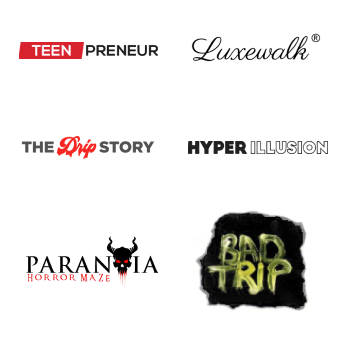
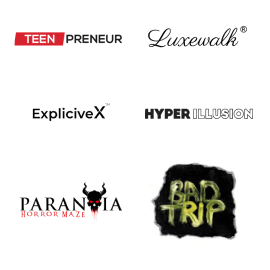
Akshat's changes befor launch

diff --git a/index.html b/index.html
@@ -5,12 +5,12 @@
 <meta content="text/html;charset=utf-8" http-equiv="Content-Type">
 <meta content="utf-8" http-equiv="encoding">
 <meta name="viewport" content="initial-scale=1">
-<title>The Drip Story Website Improv</title>
+<title>The Drip Story E-Com Booster</title>
 <meta class="metaTagTop" name="description" content="We Help E-commerce &amp; Info Product Businesses By Producing Spine-Chilling ROI Via Paid Advertising. ">
 <meta class="metaTagTop" name="keywords" content="Agency, Marketing, Teenpreneuer">
 <meta class="metaTagTop" name="author" content="IAG-Media">
 <meta class="metaTagTop" property="og:image" content="images/Favicon_Dark.png" id="social-image">
-<meta property="og:title" content="The Drip Story Website Improv">
+<meta property="og:title" content="The Drip Story E-Com Booster">
 <meta property="og:description" content="We Help E-commerce &amp; Info Product Businesses By Producing Spine-Chilling ROI by improving their website ">
 <meta property="og:type" content="website">
 <link rel="stylesheet" media="screen" href="css/lander.css">
@@ -39,7 +39,7 @@
 <div id="col-left-135" class="innerContent col_left ui-resizable col-md-3" data-col="left" data-trigger="none" data-animate="fade" data-delay="500" data-title="1st column" style="outline: none;">
 <div class="col-inner bgCover  noBorder borderSolid border3px cornersAll radius0 shadow0 P0-top P0-bottom P0H noTopMargin" style="padding: 0 10px">
 <div class="de elImageWrapper de-image-block elMargin0 elAlign_left ui-droppable de-editable" id="img-74921" data-de-type="img" data-de-editing="false" data-title="image" data-ce="false" data-trigger="none" data-animate="fade" data-delay="500" style="margin-top: 0px; outline: none; cursor: pointer;" aria-disabled="false">
-<img src="images/The Drip Story.png" class="elIMG ximg logo" alt width="400">
+<a href="https://www.thedripstory.com"><img src="images/The Drip Story.png" class="elIMG ximg logo" alt width="400"></a>
 </div>
 </div>
 </div>
@@ -56,7 +56,7 @@
 <!-- <h1 class="ne elHeadline hsSize3 lh4 elMargin0 elBGStyle0 hsTextShadow0 de3pxLetterSpacing mfs_18" style="text-align: left; font-size: 26px; color: rgb(255, 255, 255);" data-bold="inherit" data-gramm="false" contenteditable="false"><b>MODERN DAY ALCHEMY</b></h1> -->
 </div>
 <div class="de elHeadlineWrapper ui-droppable de-editable" id="headline-13122" data-de-type="headline" data-de-editing="false" data-title="headline" data-ce="true" data-trigger="none" data-animate="fade" data-delay="500" style="margin-top: 0px; outline: none; cursor: pointer; font-family: Montserrat, Helvetica, sans-serif !important;" aria-disabled="false" data-google-font="Montserrat">
-<h1 class="ne elHeadline hsSize3 lh4 elMargin0 elBGStyle0 hsTextShadow0 mfs_23" style="text-align: left; font-size: 36px; color: #d8232f;" data-bold="inherit" data-gramm="false" contenteditable="false"><b>We Help E-commerce Stores Produce Spine-Chilling ROI by changing their website by adding secret trigger points for increased conversion</b></h1>
+<h1 class="ne elHeadline hsSize3 lh4 elMargin0 elBGStyle0 hsTextShadow0 mfs_23" style="text-align: left; font-size: 36px; color: #d8232f;" data-bold="inherit" data-gramm="false" contenteditable="false"><b>We Help E-commerce Stores Produce Spine-Chilling ROI by changing their website, applying secretly and delicately curated cognitive psychological triggers all around the website for increased conversion</b></h1>
 </div>
 <div class="de elHeadlineWrapper ui-droppable de-editable" id="headline-23215" data-de-type="headline" data-de-editing="false" data-title="Paragraph" data-ce="true" data-trigger="none" data-animate="fade" data-delay="500" style="margin-top: 15px; outline: none; cursor: pointer; font-family: Montserrat, Helvetica, sans-serif !important;" data-google-font="Montserrat" aria-disabled="false">
 <div class="ne elHeadline hsSize1 lh5 elMargin0 elBGStyle0 hsTextShadow0 mfs_16" data-bold="inherit" style="text-align: left; font-size: 21px; color: rgb(255, 255, 255);" data-gramm="false" contenteditable="false">
@@ -66,8 +66,8 @@ Stop losing money on faulty and ineffective website designs.<div><br></div>
 </div>
 <div class="de elBTN elMargin0 elAlign_left ui-droppable de-editable" id="button-13943" data-de-type="button" data-de-editing="false" data-title="button-cta" data-ce="false" data-trigger="none" data-animate="fade" data-delay="500" style="margin-top: 20px; outline: none; cursor: pointer; font-family: Montserrat, Helvetica, sans-serif !important;" data-element-theme="customized" data-google-font="Montserrat" aria-disabled="false" data-elbuttontype="1">
 <a href="#scroll-schedule-call-sect" class="elButton elButtonSize1 elButtonColor1 elButtonPadding2 elButtonCorner60 elButtonFluid elButtonTxtColor1 elBTN_b_none elButtonShadowFlatHighlight elBTNone elButtonBlock elBtnHP_40 deCapitalize elBtnVP_10 mfs_18" style="color: rgb(255, 255, 255); background: #d8232f; font-size: 24px;" rel="noopener noreferrer" id="undefined-281-307">
-<span class="elButtonMain">Hire Us For &#8377;1,999/-</span>
-<span class="elButtonSub">Speak to Our Team Today</span>
+<span class="elButtonMain">Hire Us for Just &#8377;1,999</span>
+<span class="elButtonSub">*No conditions apply!</span>
 </a>
 </div>
 <div class="de elImageWrapper de-image-block elAlign_center elMargin0 ui-droppable de-editable" id="tmp_image-85185" data-de-type="img" data-de-editing="false" data-title="image" data-ce="false" data-trigger="none" data-animate="fade" data-delay="500" style="margin-top: 30px; outline: none; cursor: pointer;" data-hide-on="mobile" aria-disabled="false">
@@ -114,7 +114,7 @@ Stop losing money on faulty and ineffective website designs.<div><br></div>
 <h1 class="ne elHeadline hsSize3 lh4 elMargin0 elBGStyle0 hsTextShadow0 mfs_21" style="text-align: left; font-size: 32px; color: rgb(0, 0, 0);" data-bold="inherit" data-gramm="false" contenteditable="false"><b>Our Philosophy</b></h1>
 </div>
 <div class="de elHeadlineWrapper ui-droppable hiddenElementTools de-editable" id="headline-53522" data-de-type="headline" data-de-editing="false" data-title="Paragraph" data-ce="true" data-trigger="none" data-animate="fade" data-delay="500" style="margin-top: 15px; outline: none; cursor: pointer; font-family: Montserrat, Helvetica, sans-serif !important;" data-google-font="Montserrat" aria-disabled="false">
-<div class="ne elHeadline hsSize1 lh5 elMargin0 elBGStyle0 hsTextShadow0 mfs_16" data-bold="inherit" style="text-align: left; font-size: 18px; color: #000;" data-gramm="false" contenteditable="false">Here at The Drip Story, we've worked with the best in the industry to produce millions of dollars in ROI by tweaking their websites to trigger the visitors to convert. We do away with the the inefficiencies &amp; formalities that plague most agencies.&nbsp;<div><br></div>
+<div class="ne elHeadline hsSize1 lh5 elMargin0 elBGStyle0 hsTextShadow0 mfs_16" data-bold="inherit" style="text-align: left; font-size: 18px; color: #000;" data-gramm="false" contenteditable="false">Here at The Drip Story, we've worked with the best in the industry to produce millions of dollars in ROI by tweaking their websites to trigger conversions at a consistent scale. We do away with the inefficiencies & formalities that plague most agencies. We're streamlined, in all possible ways.&nbsp;<div><br></div>
 <div>Our client case studies have become myth, our waiting list is longer than your complaints with your current agency and we look for a very specific kind of client.&nbsp;</div>
 <div><br></div>
 <div><b>Maybe that’s you: it would be our honour to find out. Schedule your FREE discovery call below.&nbsp;</b></div>
@@ -147,10 +147,10 @@ Stop losing money on faulty and ineffective website designs.<div><br></div>
   <div id="col-full-177" class="col-md-12 innerContent col_left" data-col="full" data-trigger="none" data-animate="fade" data-delay="500" data-title="1st column" style="outline: none;">
   <div class="col-inner bgCover  noBorder borderSolid border3px cornersAll radius0 shadow0 P0-top P0-bottom P0H noTopMargin" style="padding: 0 10px">
   <div class="de elHeadlineWrapper ui-droppable de-editable" id="headline-80104" data-de-type="headline" data-de-editing="false" data-title="Paragraph" data-ce="true" data-trigger="none" data-animate="fade" data-delay="500" style="margin-top: 5px; outline: none; cursor: pointer; font-family: Montserrat, Helvetica, sans-serif !important;" aria-disabled="false" data-hide-on data-google-font="Montserrat">
-  <div class="ne elHeadline hsSize1 lh5 elMargin0 elBGStyle0 hsTextShadow0 lh6 deUppercase mfs_16 de3pxLetterSpacing" data-bold="inherit" style="text-align: center; font-size: 22px; color: rgb(45, 45, 45);" data-gramm="false" contenteditable="false"><div><font color="#fc3792"><b>Free Case Study:&nbsp;</b></font></div></div>
+  <div class="ne elHeadline hsSize1 lh5 elMargin0 elBGStyle0 hsTextShadow0 lh6 deUppercase mfs_16 de3pxLetterSpacing" data-bold="inherit" style="text-align: center; font-size: 22px; color: rgb(45, 45, 45);" data-gramm="false" contenteditable="false"><div><font color="#fc3792"><b>MOST RECENT CASE STUDY:&nbsp;</b></font></div></div>
   </div>
   <div class="de elHeadlineWrapper ui-droppable de-editable" id="headline-75230-141-180-171-136-157" data-de-type="headline" data-de-editing="false" data-title="headline" data-ce="true" data-trigger="none" data-animate="fade" data-delay="500" style="margin-top: 10px; cursor: pointer; outline: none; font-family: Montserrat, Helvetica, sans-serif !important;" aria-disabled="false" data-google-font="Montserrat">
-  <div class="ne elHeadline hsSize3 lh3 elMargin0 elBGStyle0 hsTextShadow0 deCapitalize deNormalLS mfs_21" style="text-align: center; font-size: 32px; color: #000;" data-bold="inherit" data-gramm="false" spellcheck="false" contenteditable="false"><font color="#fc3792"><b>"How My Agency Is Helping 'New Breed' Info Product &amp; Ecommerce Businesses Scale Aggressively"</b></font></div>
+  <div class="ne elHeadline hsSize3 lh3 elMargin0 elBGStyle0 hsTextShadow0 deCapitalize deNormalLS mfs_21" style="text-align: center; font-size: 32px; color: #000;" data-bold="inherit" data-gramm="false" spellcheck="false" contenteditable="false"><font color="#fc3792"><b>"The Drip Story healed exactly what was stopping my business from getting to the next level" - says the Founder of Hyper Illusion in the interview below</b></font></div>
   </div>
   </div>
   </div>
@@ -207,7 +207,7 @@ Stop losing money on faulty and ineffective website designs.<div><br></div>
 <div class="de elBTN elMargin0 elAlign_left ui-droppable hiddenElementTools de-editable" id="button-63172" data-de-type="button" data-de-editing="false" data-title="button-cta" data-ce="false" data-trigger="none" data-animate="fade" data-delay="500" style="margin-top: 20px; outline: none; cursor: pointer; font-family: Montserrat, Helvetica, sans-serif !important;" data-element-theme="customized" data-google-font="Montserrat" aria-disabled="false" data-elbuttontype="1">
 <a href="#scroll-schedule-call-sect" class="elButton elButtonSize1 elButtonColor1 elButtonPadding2 elButtonCorner60 elButtonFluid elButtonTxtColor1 elBTN_b_none elButtonShadowFlatHighlight elBTNone elButtonBlock elBtnHP_40 deCapitalize elBtnVP_10 mfs_18" style="color: rgb(255, 255, 255); background: #d8232f; font-size: 24px;" rel="noopener noreferrer" id="undefined-281-1127">
 <span class="elButtonMain">Hire Us For &#8377;1,999/-</span>
-<span class="elButtonSub">Schedule Your FREE Audit Call Now</span>
+<span class="elButtonSub">100% Refund if you don't "LOVE" our work</span>
 </a>
 </div>
 </div>
@@ -271,7 +271,7 @@ Stop losing money on faulty and ineffective website designs.<div><br></div>
 <div id="col-full-125" class="col-md-12 innerContent col_left" data-col="full" data-trigger="none" data-animate="fade" data-delay="500" data-title="1st column" style="outline: none;">
 <div class="col-inner bgCover  noBorder borderSolid border3px cornersAll radius0 shadow0 P0-top P0-bottom P0H noTopMargin" style="padding: 0 10px">
 <div class="de elHeadlineWrapper ui-droppable de-editable" id="headline-36878" data-de-type="headline" data-de-editing="false" data-title="headline" data-ce="true" data-trigger="none" data-animate="fade" data-delay="500" style="margin-top: 0px; outline: none; cursor: pointer; font-family: Montserrat, Helvetica, sans-serif !important;" aria-disabled="false" data-google-font="Montserrat">
-<h1 class="ne elHeadline hsSize3 lh4 elMargin0 elBGStyle0 hsTextShadow0 mfs_21" style="text-align: center; font-size: 48px; color: #000;" data-bold="inherit" data-gramm="false" contenteditable="false"><b>Brands That Trust Us</b></h1>
+<h1 class="ne elHeadline hsSize3 lh4 elMargin0 elBGStyle0 hsTextShadow0 mfs_21" style="margin-bottom:40px; text-align: center; font-size: 48px; color: #000;" data-bold="inherit" data-gramm="false" contenteditable="false"><b>Brands That Trust Us</b></h1>
 </div>
 </div>
 </div>
@@ -280,7 +280,15 @@ Stop losing money on faulty and ineffective website designs.<div><br></div>
 <div id="col-full-147" class="col-md-12 innerContent col_left" data-col="full" data-trigger="none" data-animate="fade" data-delay="500" data-title="1st column" style="outline: none;">
 <div class="col-inner bgCover  noBorder borderSolid border3px cornersAll radius0 shadow0 P0-top P0-bottom P0H noTopMargin" style="padding: 0 10px">
 <div class="de elImageWrapper de-image-block elAlign_center elMargin0 ui-droppable de-editable" id="tmp_image-11076" data-de-type="img" data-de-editing="false" data-title="image" data-ce="false" data-trigger="none" data-animate="fade" data-delay="500" style="margin-top: 0px; outline: none; cursor: pointer;" aria-disabled="false">
-<img src="images/brand-experience-mobile.png" class="elIMG ximg" alt width="270">
+<img src="images/brand-experience-mobile.png" class="elIMG ximg" alt width="270" usemap="#image-map">
+<map name="image-map">
+  <area target="_blank" alt="Teenpreneur" title="Teenpreneur" href="https://www.instagram.com/teenpreneurco" coords="11,26,123,49" shape="rect">
+  <area target="_blank" alt="Luxewalk" title="Luxewalk" href="https://www.instagram.com/luxewalk" coords="142,25,247,49" shape="rect">
+  <area target="_blank" alt="ExpliciveX" title="ExpliciveX" href="https://www.instagram.com/explicivex" coords="23,98,111,124" shape="rect">
+  <area target="_blank" alt="Hyper Illusion" title="Hyper Illusion" href="https://www.instagram.com/hyperillusionindia" coords="142,99,258,128" shape="rect">
+  <area target="_blank" alt="paranoiamiami" title="paranoiamiami" href="https://www.instagram.com/paranoiamiami" coords="16,176,123,228" shape="rect">
+  <area target="_blank" alt="badtripindia" title="badtripindia" href="https://www.instagram.com/badtripindia" coords="149,159,240,243" shape="rect">
+</map>
 </div>
 </div>
 </div>
@@ -289,20 +297,21 @@ Stop losing money on faulty and ineffective website designs.<div><br></div>
 <div id="col-left-176" class="col-md-4 innerContent col_left ui-resizable" data-col="left" data-trigger="none" data-animate="fade" data-delay="500" data-title="1st column" style="outline: none;">
 <div class="col-inner bgCover  noBorder borderSolid border3px cornersAll radius0 shadow0 P0-top P0-bottom P0H noTopMargin" style="padding: 0 10px">
 <div class="brand-logo-parent de elImageWrapper de-image-block elAlign_center elMargin0 ui-droppable de-editable" id="img-30501" data-de-type="img" data-de-editing="false" data-title="image" data-ce="false" data-trigger="none" data-animate="fade" data-delay="500" style="margin-top: 0px; outline: none; cursor: pointer;" aria-disabled="false">
-<img src="images/TP.png" class="elIMG ximg" alt="brand-experience" width="150">
+  <a target="_blank" href="https://www.instagram.com/teenpreneurco"><img src="images/TP.png" class="elIMG ximg" alt="brand-experience" width="150"></a>
 </div>
 </div>
 </div>
 <div id="col-center-101" class="col-md-4 innerContent col_right ui-resizable" data-col="center" data-trigger="none" data-animate="fade" data-delay="500" data-title="2nd column" style="outline: none;">
 <div class="col-inner bgCover  noBorder borderSolid border3px cornersAll radius0 shadow0 P0-top P0-bottom P0H noTopMargin" style="padding: 0 10px">
 <div class="brand-logo-parent de elImageWrapper de-image-block elAlign_center elMargin0 ui-droppable de-editable" id="img-62951" data-de-type="img" data-de-editing="false" data-title="image" data-ce="false" data-trigger="none" data-animate="fade" data-delay="500" style="margin-top: 10px; outline: none; cursor: pointer;" aria-disabled="false">
-<img src="images/The Drip Story black.png" class="elIMG ximg" alt="brand-experience" width="150">
+<!-- <img src="images/The Drip Story black.png" class="elIMG ximg" alt="brand-experience" width="150"> -->
+<a target="_blank" href="https://www.instagram.com/explicivex"><img src="images/ExpliciveX logo black.png" class="elIMG ximg" alt="brand-experience" width="150"></a>
 </div>
 </div>
 </div>
 <div id="col-right-124" class="col-md-4 innerContent col_right ui-resizable" data-col="right" data-trigger="none" data-animate="fade" data-delay="500" data-title="3rd column" style="outline: none;">
 <div class="col-inner bgCover  noBorder borderSolid border3px cornersAll radius0 shadow0 P0-top P0-bottom P0H noTopMargin" style="padding: 0 10px"><div class="brand-logo-parent de elImageWrapper de-image-block elAlign_center elMargin0 ui-droppable de-editable" id="tmp_image-98501" data-de-type="img" data-de-editing="false" data-title="image" data-ce="false" data-trigger="none" data-animate="fade" data-delay="500" style="margin-top: 5px; outline: none; cursor: pointer;" aria-disabled="false">
-<img src="images/Paranoia Miami.png" class="elIMG ximg" alt="brand-experience" width="150">
+  <a target="_blank" href="https://www.instagram.com/paranoiamiami"><img src="images/Paranoia Miami.png" class="elIMG ximg" alt="brand-experience" width="150"></a>
 </div></div>
 </div>
 </div>
@@ -310,20 +319,20 @@ Stop losing money on faulty and ineffective website designs.<div><br></div>
 <div id="col-left-176-113" class="col-md-4 innerContent col_left ui-resizable" data-col="left" data-trigger="none" data-animate="fade" data-delay="500" data-title="1st column" style="outline: none;">
 <div class="col-inner bgCover  noBorder borderSolid border3px cornersAll radius0 shadow0 P0-top P0-bottom P0H noTopMargin" style="padding: 0 10px">
 <div class="brand-logo-parent de elImageWrapper de-image-block elAlign_center elMargin0 ui-droppable de-editable" id="img-30501-129" data-de-type="img" data-de-editing="false" data-title="image" data-ce="false" data-trigger="none" data-animate="fade" data-delay="500" style="margin-top: 0px; outline: none; cursor: pointer;" aria-disabled="false">
-<img src="images/Hyper illusion.png" class="elIMG ximg" alt="brand-experience" width="150">
+  <a target="_blank" href="https://www.instagram.com/hyperillusionindia"><img src="images/Hyper illusion.png" class="elIMG ximg" alt="brand-experience" width="150"></a>
 </div>
 </div>
 </div>
 <div id="col-center-101-129" class="col-md-4 innerContent col_right ui-resizable" data-col="center" data-trigger="none" data-animate="fade" data-delay="500" data-title="2nd column" style="outline: none;">
 <div class="col-inner bgCover  noBorder borderSolid border3px cornersAll radius0 shadow0 P0-top P0-bottom P0H noTopMargin" style="padding: 0 10px">
 <div class="brand-logo-parent de elImageWrapper de-image-block elAlign_center elMargin0 ui-droppable de-editable" id="img-62951-103" data-de-type="img" data-de-editing="false" data-title="image" data-ce="false" data-trigger="none" data-animate="fade" data-delay="500" style="margin-top: 10px; outline: none; cursor: pointer;" aria-disabled="false">
-<img src="images/Luxewalk.png" class="elIMG ximg" alt="brand-experience" width="150">
+<a target="_blank" href="https://www.instagram.com/luxewalk"><img src="images/Luxewalk.png" class="elIMG ximg" alt="brand-experience" width="150"></a>
 </div>
 </div>
 </div>
 <div id="col-right-124-103" class="col-md-4 innerContent col_right ui-resizable" data-col="right" data-trigger="none" data-animate="fade" data-delay="500" data-title="3rd column" style="outline: none;">
 <div class="col-inner bgCover  noBorder borderSolid border3px cornersAll radius0 shadow0 P0-top P0-bottom P0H noTopMargin" style="padding: 0 10px"><div class="brand-logo-parent de elImageWrapper de-image-block elAlign_center elMargin0 ui-droppable de-editable" id="tmp_image-98501-189" data-de-type="img" data-de-editing="false" data-title="image" data-ce="false" data-trigger="none" data-animate="fade" data-delay="500" style="margin-top: 0px; outline: none; cursor: pointer;" aria-disabled="false">
-<img src="images/badtrip.png" class="elIMG ximg" alt="brand-experience" width="150">
+  <a target="_blank" href="https://www.instagram.com/badtripindia"><img src="images/badtrip.png" class="elIMG ximg" alt="brand-experience" width="150"></a>
 </div></div>
 </div>
 </div>
@@ -383,7 +392,7 @@ Stop losing money on faulty and ineffective website designs.<div><br></div>
 <h1 class="ne elHeadline hsSize3 lh4 elMargin0 elBGStyle0 hsTextShadow0" style="text-align: center; font-size: 22px; color: rgb(255, 255, 255);" data-bold="inherit" data-gramm="false" contenteditable="false"><b>Kanishk</b></h1>
 </div>
 <div class="de elHeadlineWrapper ui-droppable de-editable" id="headline-38934" data-de-type="headline" data-de-editing="false" data-title="headline" data-ce="true" data-trigger="none" data-animate="fade" data-delay="500" style="margin-top: 0px; outline: none; cursor: pointer; font-family: Montserrat, Helvetica, sans-serif !important;" aria-disabled="false" data-google-font="Montserrat">
-<h1 class="ne elHeadline hsSize3 lh4 elMargin0 elBGStyle0 hsTextShadow0 de2pxLetterSpacing deUppercase" style="text-align: center; font-size: 16px; color: #d8232f;" data-bold="inherit" data-gramm="false" contenteditable="false">Performance marketer</h1>
+<h1 class="ne elHeadline hsSize3 lh4 elMargin0 elBGStyle0 hsTextShadow0 de2pxLetterSpacing deUppercase" style="text-align: center; font-size: 16px; color: #d8232f;" data-bold="inherit" data-gramm="false" contenteditable="false">Performance analyst</h1>
 </div>
 </div>
 </div>
@@ -393,14 +402,14 @@ Stop losing money on faulty and ineffective website designs.<div><br></div>
 <h1 class="ne elHeadline hsSize3 lh4 elMargin0 elBGStyle0 hsTextShadow0 mfs_21" style="text-align: left; font-size: 32px; color: #d8232f;" data-bold="inherit" data-gramm="false" contenteditable="false"><b>Meet The A-Team</b></h1>
 </div>
 <div class="de elHeadlineWrapper ui-droppable de-editable" id="headline-14144" data-de-type="headline" data-de-editing="false" data-title="Paragraph" data-ce="true" data-trigger="none" data-animate="fade" data-delay="500" style="margin-top: 15px; outline: none; cursor: pointer; font-family: Montserrat, Helvetica, sans-serif !important;" data-google-font="Montserrat" aria-disabled="false">
-<div class="ne elHeadline hsSize1 lh5 elMargin0 elBGStyle0 hsTextShadow0 mfs_16" data-bold="inherit" style="text-align: left; font-size: 18px; color: rgb(255, 255, 255);" data-gramm="false" contenteditable="false">Founded by Akshat who's spent the past 4 years attracting the best talent globally.&nbsp;<div><br></div>
-<div>With our elusive company culture, calibre of clientele &amp; Akshat’s social media in the hundreds of thousands - The Drip Story has our pick of the litter all across the world when it comes to who we’re able to hire. The team you see in front of you is a culmination of that.</div>
+<div class="ne elHeadline hsSize1 lh5 elMargin0 elBGStyle0 hsTextShadow0 mfs_16" data-bold="inherit" style="text-align: left; font-size: 18px; color: rgb(255, 255, 255);" data-gramm="false" contenteditable="false">Founded by Akshat Gupta, who's spent the past 5-years attracting the best talent, globally.&nbsp;<div><br></div>
+<div>With our elusive company culture, calibre of clientele &amp; Akshat’s social media in the hundreds of thousands - <br/>The Drip Story has our pick of the litter all across the world when it comes to who we’re able to hire. The team you see in front of you is a culmination of that.</div>
 </div>
 </div>
 <div class="de elBTN elMargin0 elAlign_left ui-droppable de-editable" id="button-29706" data-de-type="button" data-de-editing="false" data-title="button-cta" data-ce="false" data-trigger="none" data-animate="fade" data-delay="500" style="margin-top: 20px; outline: none; cursor: pointer; font-family: Montserrat, Helvetica, sans-serif !important;" data-element-theme="customized" data-google-font="Montserrat" aria-disabled="false" data-elbuttontype="1">
 <a href="#scroll-schedule-call-sect" class="elButton elButtonSize1 elButtonColor1 elButtonPadding2 elButtonCorner60 elButtonFluid elButtonTxtColor1 elBTN_b_none elButtonShadowFlatHighlight elBTNone elButtonBlock elBtnHP_40 deCapitalize elBtnVP_10 mfs_18" style="color: rgb(255, 255, 255); background: #d8232f; font-size: 24px;" rel="noopener noreferrer" id="undefined-281-482-438">
-<span class="elButtonMain">Hire Us For &#8377;1,999/-</span>
-<span class="elButtonSub">Schedule Your FREE Audit Call Now</span>
+<span class="elButtonMain">Click to hire this A-Team <br/> to dedicatedly work for YOU</span>
+<!-- <span class="elButtonSub">Schedule Your FREE Audit Call Now</span> -->
 </a>
 </div>
 </div>
@@ -442,7 +451,7 @@ Stop losing money on faulty and ineffective website designs.<div><br></div>
 <div class="ne elHeadline hsSize1 lh5 elMargin0 elBGStyle0 hsTextShadow0 lh6 deUppercase deNormalLS mfs_16" data-bold="inherit" style="text-align: left; font-size: 20px; color: rgb(45, 45, 45);" data-gramm="false" contenteditable="false"><div><b>SCHEDULE YOUR CALL WITH THE DRIP STORY&#x2122;</b></div></div>
 </div>
 <div class="de elHeadlineWrapper ui-droppable de-editable" id="headline-22076" data-de-type="headline" data-de-editing="false" data-title="headline" data-ce="true" data-trigger="none" data-animate="fade" data-delay="500" style="margin-top: -5px; cursor: pointer; outline: none; font-family: Montserrat, Helvetica, sans-serif !important;" aria-disabled="false" data-google-font="Montserrat">
-<div class="ne elHeadline hsSize3 lh3 elMargin0 elBGStyle0 hsTextShadow0 deCapitalize deNormalLS mfs_26" style="text-align: left; font-size: 38px; color: #000;" data-bold="inherit" data-gramm="false" spellcheck="false" contenteditable="false"><b>Free 15-Minute Audit Call</b></div>
+<div class="ne elHeadline hsSize3 lh3 elMargin0 elBGStyle0 hsTextShadow0 deCapitalize deNormalLS mfs_26" style="text-align: left; font-size: 38px; color: #000;" data-bold="inherit" data-gramm="false" spellcheck="false" contenteditable="false"><b>The 15-Minute Audit Call</b></div>
 </div>
 <div class="de elHeadlineWrapper ui-droppable de-editable" id="headline-29431" data-de-type="headline" data-de-editing="false" data-title="Paragraph" data-ce="true" data-trigger="none" data-animate="fade" data-delay="500" style="margin-top: 15px; outline: none; cursor: pointer; font-family: Montserrat, Helvetica, sans-serif !important;" aria-disabled="false" data-google-font="Montserrat">
 <div class="ne elHeadline hsSize1 lh5 elMargin0 elBGStyle0 hsTextShadow0 lh6 mfs_16" data-bold="inherit" style="text-align: left; font-size: 18px; color: rgb(45, 45, 45);" data-gramm="false" contenteditable="false">By the end of this Audit call, you will have a clear understanding of the next steps you can take for your business to start generating consistent and reliable results online by making changes to your website.<div>
@@ -476,6 +485,9 @@ Stop losing money on faulty and ineffective website designs.<div><br></div>
 </li>
 <li style="font-size: 16px;">
 <i contenteditable="false" class="fa-fw fas fa-check-circle" style="color: #d8232f;"></i>Businesses looking for a reliable agency that can <b>make their company a priority.</b><br>
+</li>
+<li style="font-size: 16px;">
+  <i contenteditable="false" class="fa-fw fas fa-check-circle" style="color: #d8232f;"></i>Businesses looking to <b>minimise their abandoned carts and returns.</b><br>
 </li>
 </ul>
 </div>
@@ -530,7 +542,7 @@ Stop losing money on faulty and ineffective website designs.<div><br></div>
 <div id="col-full-153" class="col-md-12 innerContent col_left" data-col="full" data-trigger="none" data-animate="fade" data-delay="500" data-title="1st column" style="outline: none;">
 <div class="col-inner bgCover  noBorder borderSolid border3px cornersAll radius0 shadow0 P0-top P0-bottom P0H noTopMargin" style="padding: 0 10px">
 <div class="de elImageWrapper de-image-block elMargin0 ui-droppable elAlign_center de-editable" id="tmp_image-76021" data-de-type="img" data-de-editing="false" data-title="image" data-ce="false" data-trigger="none" data-animate="fade" data-delay="500" style="margin-top: 0px; outline: none; cursor: pointer;" aria-disabled="false">
-<img src="images/The Drip Story.png" class="elIMG ximg" alt width="200">
+<a href="https://www.thedripstory.com"><img src="images/The Drip Story.png" class="elIMG ximg" alt width="200"></a>
 </div>
 <div class="de elHeadlineWrapper ui-droppable de-editable" id="headline-96207" data-de-type="headline" data-de-editing="false" data-title="Paragraph" data-ce="true" data-trigger="none" data-animate="fade" data-delay="500" style="margin-top: 20px; outline: none; cursor: pointer; font-family: Montserrat, Helvetica, sans-serif !important;" aria-disabled="false" data-google-font="Montserrat">
 <div class="ne elHeadline hsSize1 lh5 elMargin0 elBGStyle0 hsTextShadow0 lh6 mfs_16" data-bold="inherit" style="text-align: center; font-size: 14px; color: rgb(229, 229, 229);" data-gramm="false" contenteditable="false">
@@ -718,7 +730,7 @@ img[alt='team-photo'] {
 img[alt='brand-experience'] {
     /* filter: url(filters.svg#grayscale); Firefox 3.5+ */
       filter: black; /* IE5+ */
-      -webkit-filter: grayscale(51); /* Webkit Nightlies & Chrome Canary */
+      /* -webkit-filter: grayscale(51); Webkit Nightlies & Chrome Canary */
       -webkit-transition: all .3s ease-in-out;  
       transform: scale(1.5);
     }
